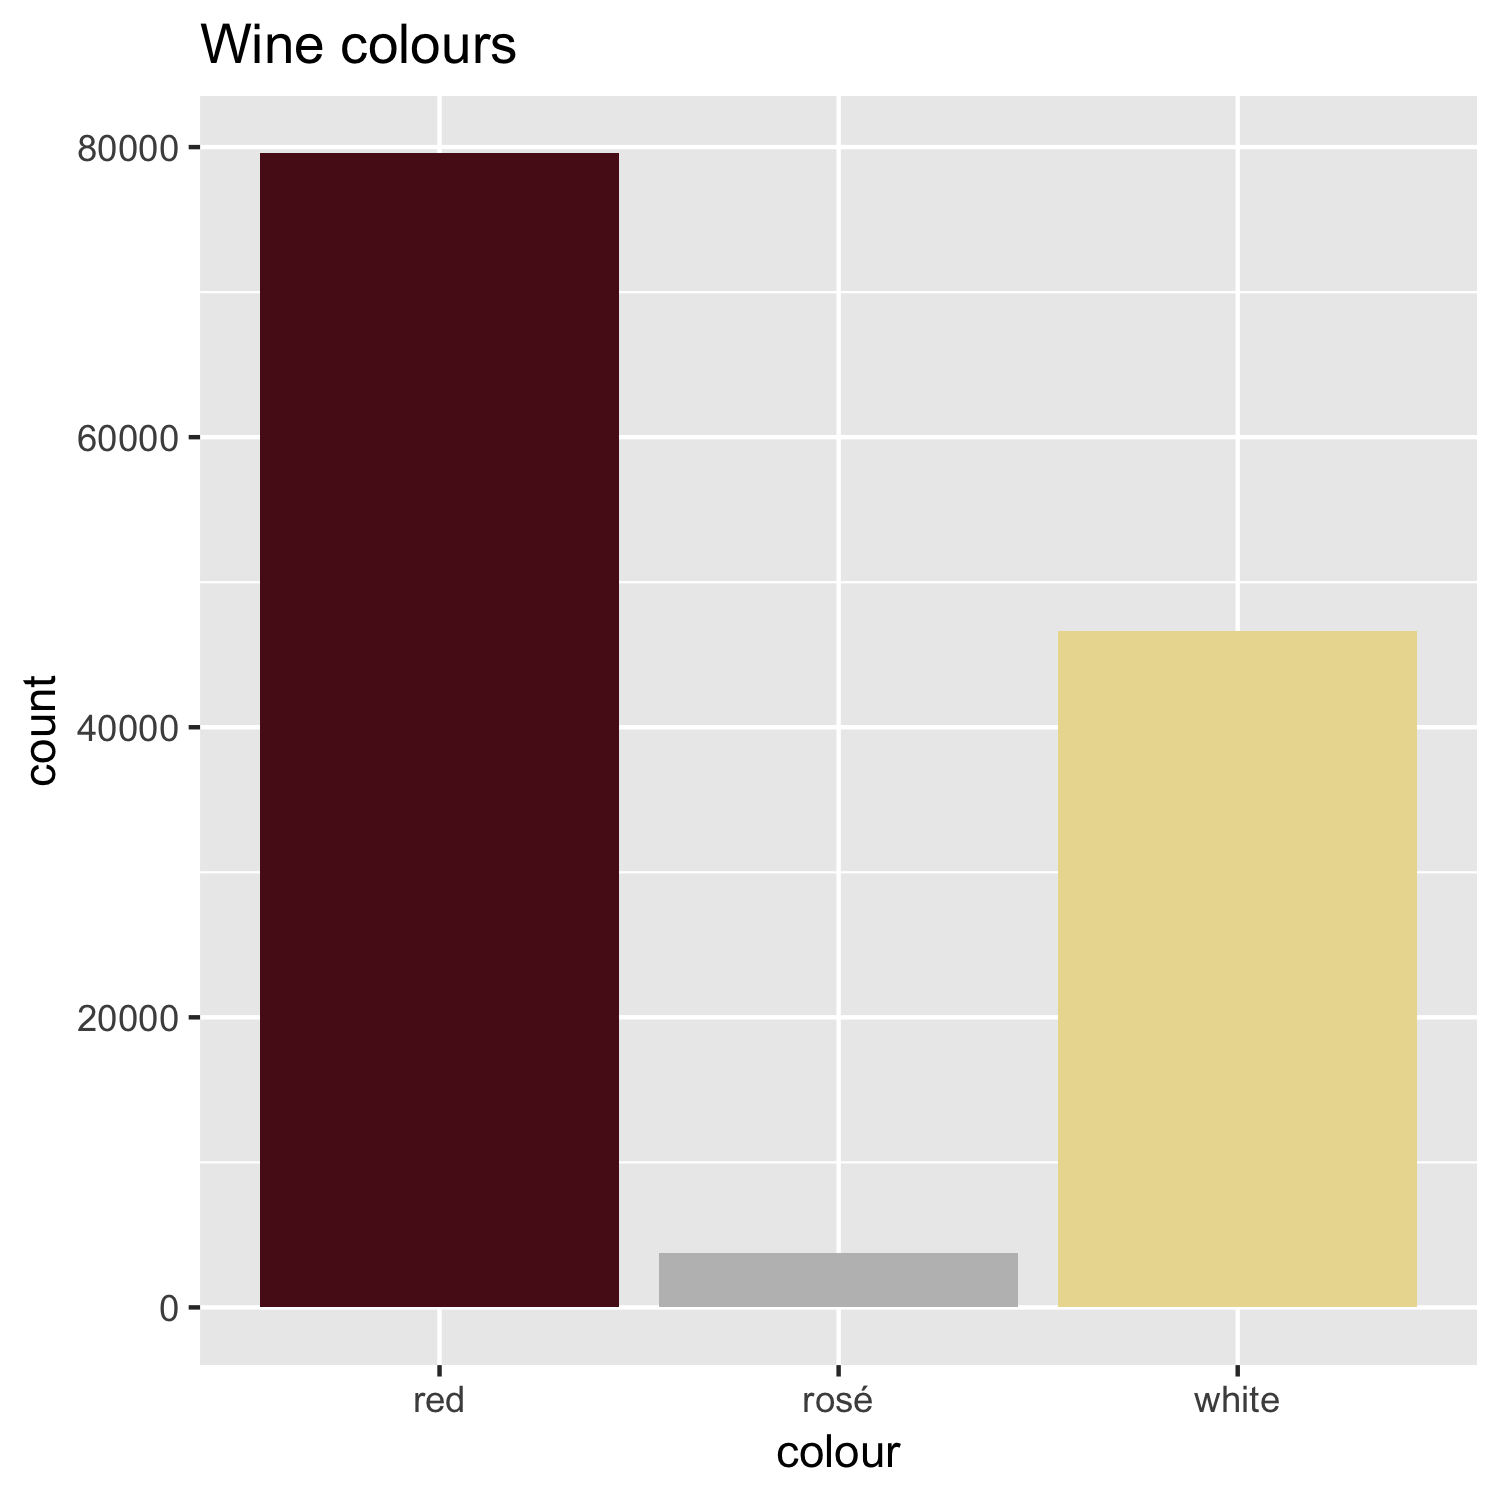
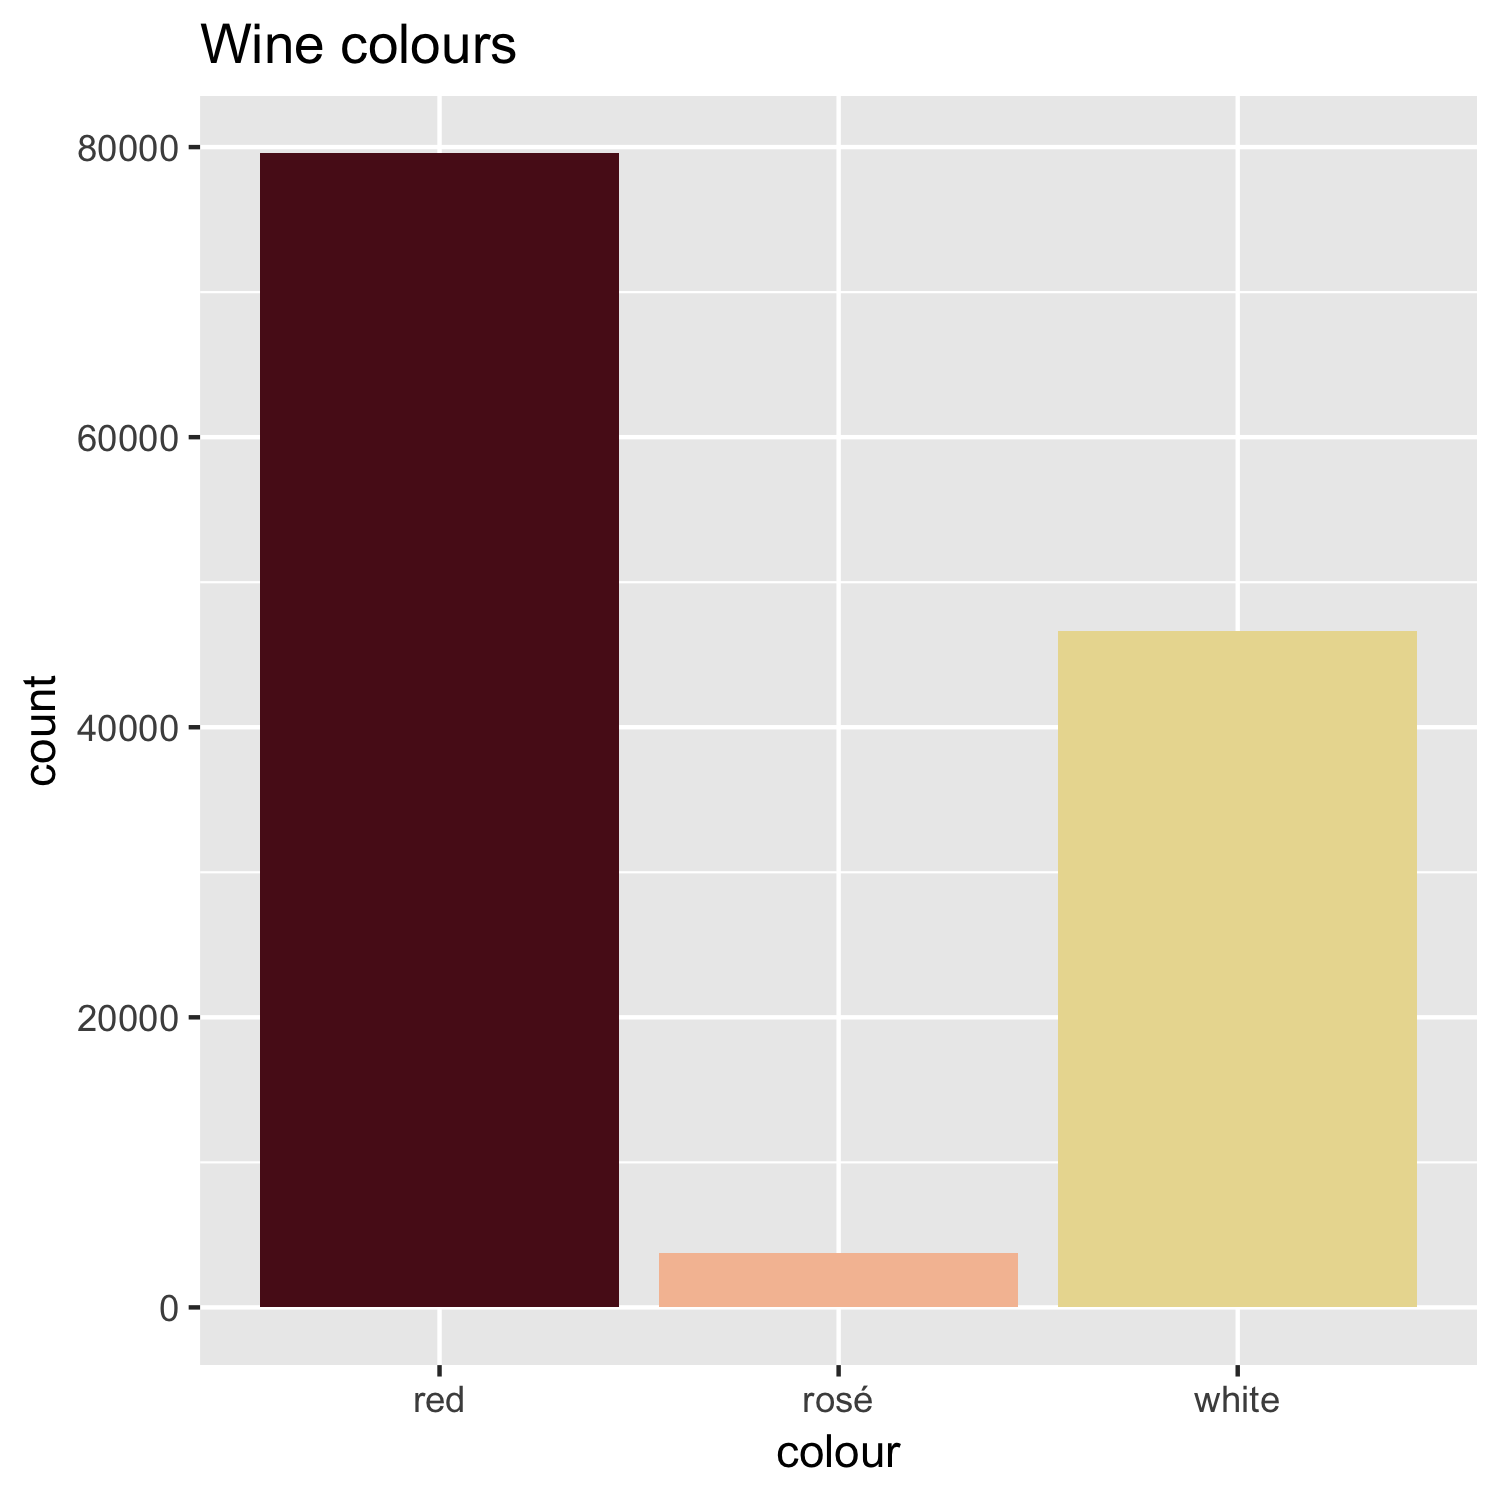
Added plot of wine colour distribution

Changed region(s): [[0.4293, 0.828, 0.6747, 0.8893]]

diff --git a/2019-04-10_melburn-wine.html b/2019-04-10_melburn-wine.html
@@ -63,11 +63,11 @@ Wine is rated from 80 to 100 *points*:
 ```r
 red_wine_colour &lt;- "#59121C"
 white_wine_colour &lt;- "#EADB9F"
-rose_wine_colour &lt;- "#F5C0A2"
+rosé_wine_colour &lt;- "#F5C0A2"
 wine_plot_colours &lt;- c(
   "red" = red_wine_colour, 
-  "white" = white_wine_colour, 
-  "rose" = rose_wine_colour
+  "white" = white_wine_colour,
+  "rosé" = rosé_wine_colour
 )
 
 wine %&gt;% ggplot(aes(x = points)) + 
@@ -155,9 +155,8 @@ wine &lt;- wine %&gt;% left_join(
 wine %&gt;% 
   ggplot(aes(x = colour, fill = colour)) + 
   geom_bar() + 
-  scale_fill_manual(values = 
-    wine_plot_colours,
-    na.value = "grey"
+  scale_fill_manual(
+    values = wine_plot_colours
   ) + 
   ggtitle("Wine colours") +
   theme(legend.position="none")
